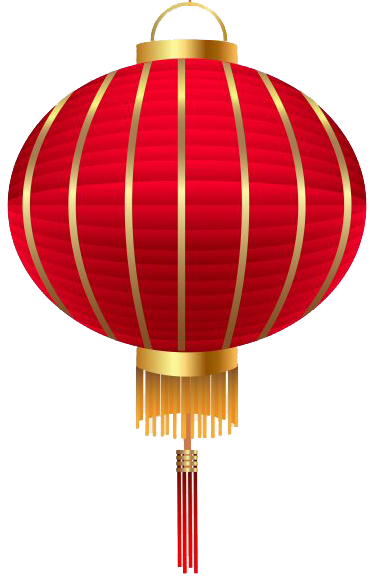
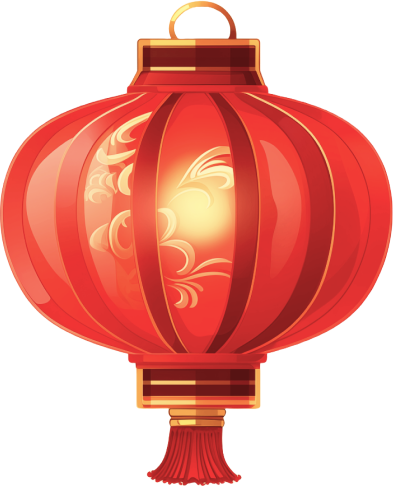
new lanturn, some tweaks

diff --git a/src/components/Particles/effects/lunarnewyear.ts b/src/components/Particles/effects/lunarnewyear.ts
@@ -5,25 +5,15 @@ import lanturn from "../../../assets/lanturn.png";
 export const lunarNewYear: ISourceOptions = {
   name: "React Multiple Images",
   particles: {
-    color: {
-      value: "#CCC",
-    },
     collisions: {
       enable: true,
-    },
-    links: {
-      blink: false,
-      color: "#fff",
-      consent: false,
-      distance: 150,
-      enable: false,
-      opacity: 0.6,
-      width: 1,
     },
     move: {
       enable: true,
       speed: 1,
+      direction: "top",
     },
+
     number: {
       density: {
         enable: true,
@@ -41,12 +31,34 @@ export const lunarNewYear: ISourceOptions = {
         max: 0.5,
       },
     },
+
+    tilt: {
+      direction: "clockwise",
+      enable: true,
+      value: { min: 0, max: 45 },
+      animation: {
+        enable: true,
+        speed: 5,
+        sync: false,
+      },
+    },
+    wobble: {
+      distance: {
+        min: 0,
+        max: 50,
+      },
+      enable: true,
+      speed: {
+        angle: { min: 0, max: 10 },
+        move: { min: 0.5, max: 1 },
+      },
+    },
     shape: {
       options: {
         image: [
           {
-            height: 579,
-            width: 370,
+            height: 486,
+            width: 393,
             replaceColor: true,
             src: lanturn,
 
